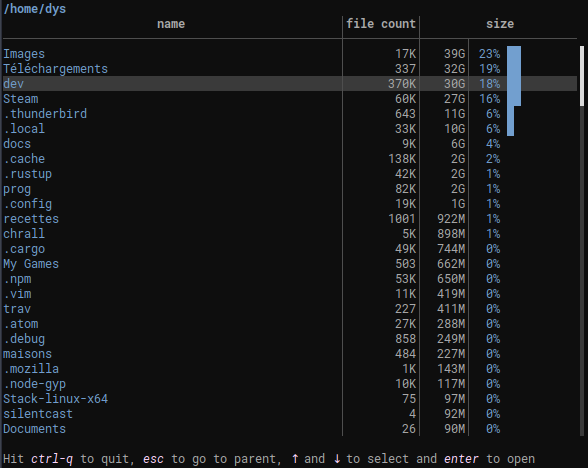
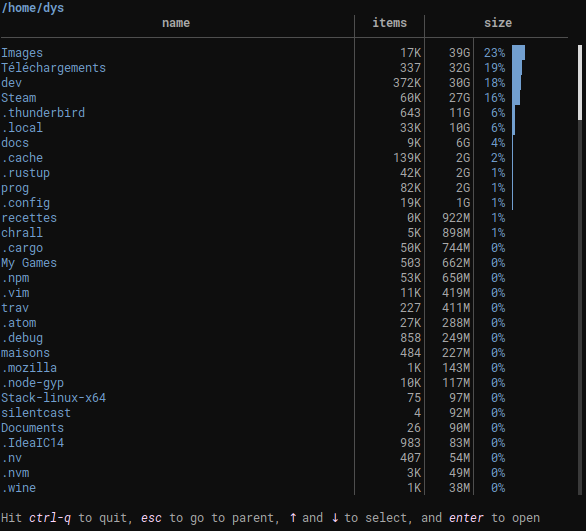
pixel precise size bar

Changed region(s): [[0.0, 0.0, 0.9829, 1.0], [0.9829, 0.0897, 1.0, 0.1197]]

diff --git a/src/screen.rs b/src/screen.rs
@@ -35,8 +35,8 @@ impl<'t> Screen<'t> {
                 )),
             ).with_align(Alignment::Left),
             ListViewColumn::new(
-                "file count",
-                10, 10,
+                "items",
+                7, 9,
                 Box::new(|fi: &FileInfo| ListViewCell::new(
                     u64_to_str(fi.file_count),
                     &SKIN.paragraph.compound_style,
@@ -44,7 +44,7 @@ impl<'t> Screen<'t> {
             ).with_align(Alignment::Right),
             ListViewColumn::new(
                 "size",
-                6, 8,
+                5, 6,
                 Box::new(|fi: &FileInfo| ListViewCell::new(
                     u64_to_str(fi.size),
                     &SKIN.paragraph.compound_style,
@@ -52,17 +52,13 @@ impl<'t> Screen<'t> {
             ).with_align(Alignment::Right),
             ListViewColumn::new(
                 "size",
-                15, 17,
+                13, 13,
                 Box::new(move |fi: &FileInfo| {
                     let total_size = column_total_size.load(Ordering::Relaxed);
                     ListViewCell::new(
                         if total_size > 0 {
-                            let part = (fi.size as f64) / (total_size as f64);
-                            let mut s = format!("{:>3.0}% ", 100.0 * part);
-                            for i in 0..10 {
-                                s.push(if (i as f64) < (10.0 * part) - 0.5 { '█' } else { ' ' });
-                            }
-                            s
+                            let part = (fi.size as f32) / (total_size as f32);
+                            format!("{:>3.0}% {}", 100.0 * part, ProgressBar::new(part, 8))
                         } else {
                             "".to_owned()
                         },
@@ -138,7 +134,7 @@ const SIZE_NAMES: &[&str] = &["", "K", "M", "G", "T", "P", "E", "Z", "Y"];
 /// format a number of as a string
 pub fn u64_to_str(mut v: u64) -> String {
     let mut i = 0;
-    while v >= 1200 && i < SIZE_NAMES.len() - 1 {
+    while v >= 1000 && i < SIZE_NAMES.len() - 1 {
         v >>= 10;
         i += 1;
     }

diff --git a/README.md b/README.md
@@ -7,7 +7,7 @@
 
 ![screen](img/screen.png)
 
-## Installation
+## Installation
 
 The simplest solution is to execute
 
@@ -18,7 +18,6 @@ If you want to play with the code, you'll probably fetch the repository. From th
 	cargo build --release
 
 and the executable will be in `target/release`.
-
 
 Note that the current version of whalespotter doesn't run on windows (due to some additional code to deduplicate inodes).
 
